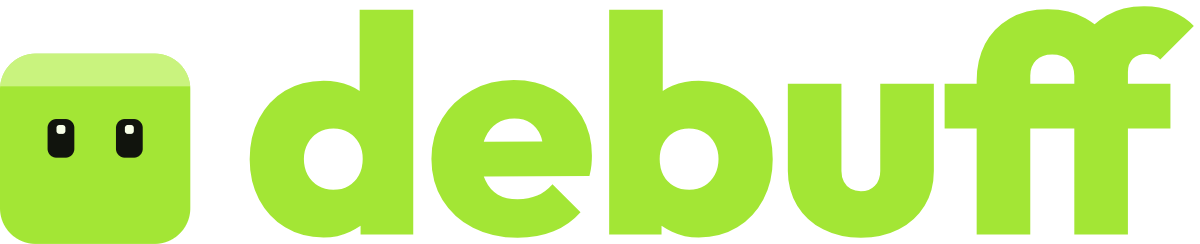
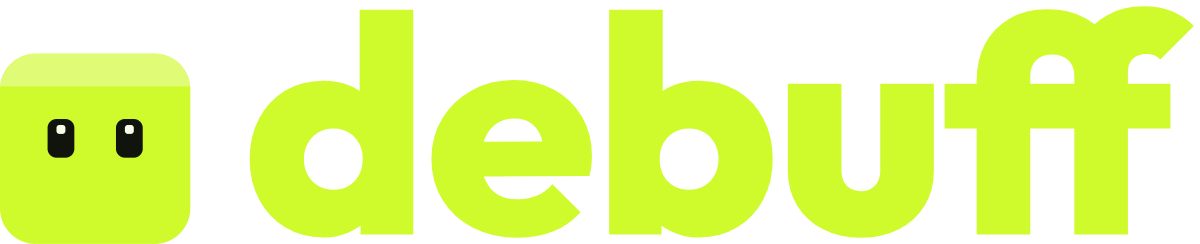
Foundation lime #cffb2d, Debuff Foundation mark, ink on lime

diff --git a/README.md b/README.md
@@ -11,17 +11,18 @@ Official assets for **debuff**, the 2D web game toolkit, and its mascot **buff**
 | File | Use |
 | --- | --- |
 | `assets/wordmark-lime.svg` | Default wordmark, on dark backgrounds |
-| `assets/wordmark-ink.svg` | Wordmark on light backgrounds |
-| `assets/wordmark-white.svg` | Wordmark on lime or photos |
+| `assets/wordmark-ink.svg` | Wordmark on light backgrounds, and on lime |
+| `assets/wordmark-white.svg` | Wordmark on photos and dark colours (never on lime: white on lime is hard to read) |
 | `assets/lockup-lime.svg` / `.png`, `assets/lockup-ink.svg` | buff + wordmark |
 | `assets/buff.svg`, `buff-happy.svg`, `buff-confused.svg`, `buff-512.png` | buff, vector |
 | `assets/buff@24x24.png` + `.json` | buff pixel sprite sheet (idle, hop, happy, oops, worried, sleepy). Drop it into a debuff project's `assets/` folder and it's sliced into 24×24 frames automatically |
 | `assets/social-card.png` | 1200×630 link preview |
+| `assets/org-logo.svg`, `org-logo-{256,512,1024}.png` | The **Debuff Foundation** mark: a black down-right arrow in a lime square, on a transparent background. Used for the GitHub org and the foundation |
 
 ## Basics
 
 - The name is always lowercase: **debuff**, and the mascot is **buff**.
-- Colours: lime `#a3e635`, limeSoft `#d9f99d`, ink `#11140d`. Accents are sky `#38bdf8`, pink `#f472b6`, amber `#fbbf24` and violet `#a78bfa`.
+- Colours: lime `#cffb2d`, limeSoft `#e7fd96`, ink `#11140d`. Anything filled with lime takes ink text, never white. Accents are sky `#38bdf8`, pink `#f472b6`, amber `#fbbf24` and violet `#a78bfa`.
 - Fonts (all OFL): Outfit (display and wordmark), Geist (body), Geist Mono (code), Pixelify Sans (pixel accents).
 - Please don't recolour, stretch or redraw the wordmark or buff, or use them to suggest an official endorsement.
 
